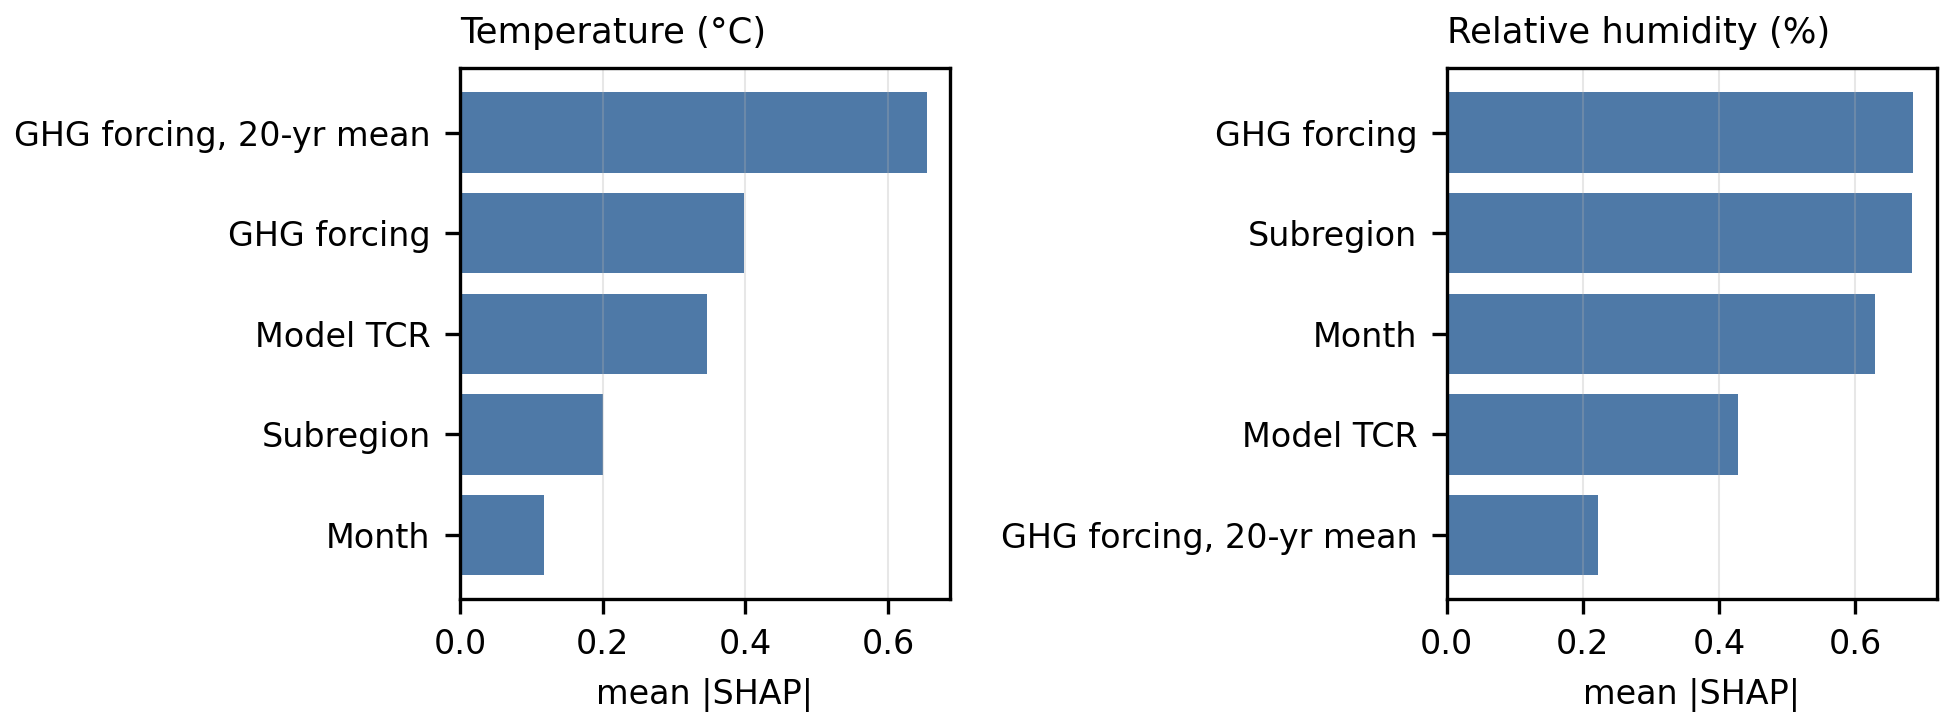
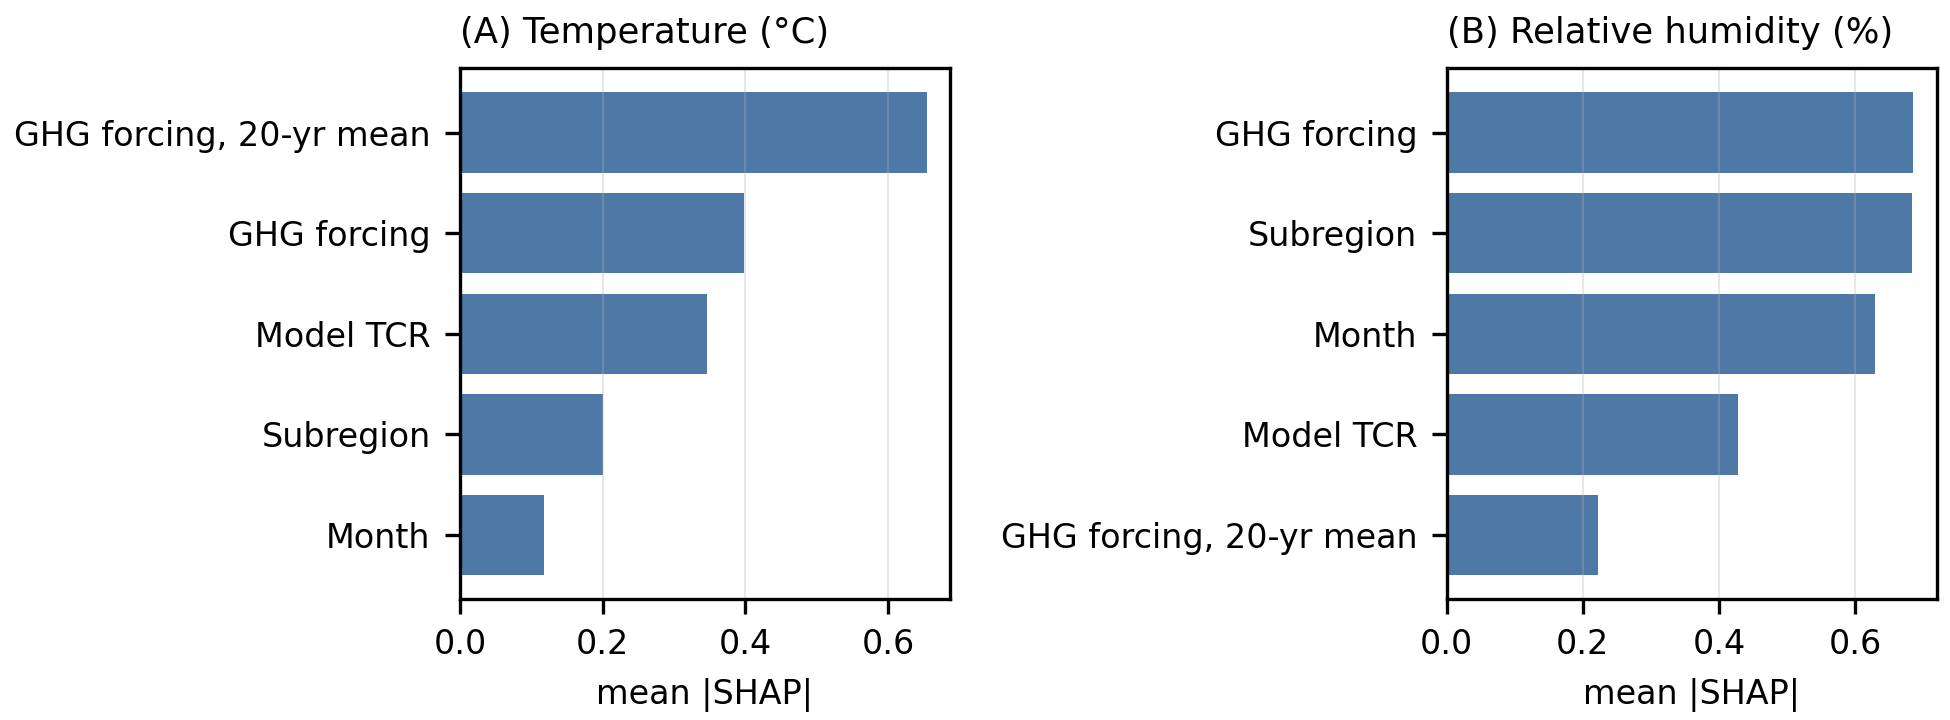
Update figure titles for clarity and consistency across multiple scripts

Changed region(s): [[0.7385, 0.0, 0.9846, 0.0611], [0.2154, 0.0, 0.4308, 0.0611]]

diff --git a/tg2/pipeline/07_pelt_changepoints.py b/tg2/pipeline/07_pelt_changepoints.py
@@ -156,7 +156,7 @@ def plot_breaks(forced, cons, path):
     plt.rcParams.update({"font.size": 8, "axes.titlesize": 9, "axes.labelsize": 8, "xtick.labelsize": 7.5, "ytick.labelsize": 7.5})
     colors, styles = {"tas": "#d62728", "hurs": "#1f77b4"}, {"slope": "--", "variance": ":"}
     fig, axes = plt.subplots(2, 2, figsize=(6.5, 4.6), sharex=True)
-    for ax, reg in zip(axes.flat, SUBREGIONS):
+    for k, (ax, reg) in enumerate(zip(axes.flat, SUBREGIONS)):
         ax2 = ax.twinx()
         for var, a in (("tas", ax), ("hurs", ax2)):
             sub = forced[(forced.region == reg) & (forced.variable == var) & (forced.scenario == "ssp585")]
@@ -171,7 +171,7 @@ def plot_breaks(forced, cons, path):
             ax.axvline(row.year_median, color=colors[row.variable], ls=styles[row.kind], lw=1.1)
             ax.text(row.year_median + 1, lo + (i % 3) * 0.12 * (hi - lo), str(row.year_median),
                     color=colors[row.variable], fontsize=6.5, rotation=90, va="bottom")
-        ax.set_title(reg, loc="left")
+        ax.set_title(f"({'ABCD'[k]}) {reg}", loc="left")
         ax.set_xlim(1950, 2100)
         ax.grid(alpha=0.3, lw=0.5)
     fig.text(0.5, 0.01, "Dashed: slope change. Dotted: variance change. Consensus of >= 5 of 8 GCMs, SSP5-8.5 and historical.",
@@ -185,7 +185,7 @@ def plot_coupling(coup, cons, path):
     plt.rcParams.update({"font.size": 8, "axes.titlesize": 9, "axes.labelsize": 8, "xtick.labelsize": 7.5, "ytick.labelsize": 7.5})
     styles = {"ssp126": ("SSP1-2.6", "#1f77b4"), "ssp585": ("SSP5-8.5", "#d62728")}
     fig, axes = plt.subplots(2, 2, figsize=(6.5, 4.2), sharex=True, sharey=True)
-    for ax, reg in zip(axes.flat, SUBREGIONS):
+    for k, (ax, reg) in enumerate(zip(axes.flat, SUBREGIONS)):
         for s, (label, color) in styles.items():
             sub = coup[(coup.region == reg) & (coup.scenario == s)]
             ens = sub.groupby("year")["coupling"].quantile([0.1, 0.5, 0.9]).unstack()
@@ -196,7 +196,7 @@ def plot_coupling(coup, cons, path):
         for row in marks.itertuples():
             ax.axvline(row.year_median, color="black", ls="--", lw=1.0)
             ax.text(row.year_median + 1, ax.get_ylim()[1], str(row.year_median), fontsize=6.5, rotation=90, va="top")
-        ax.set_title(reg, loc="left")
+        ax.set_title(f"({'ABCD'[k]}) {reg}", loc="left")
         ax.set_xlim(1950, 2100)
         ax.grid(alpha=0.3, lw=0.5)
     axes[0, 0].set_ylabel("Normalized T-H covariance")

diff --git a/tg2/pipeline/12_toe_maps.py b/tg2/pipeline/12_toe_maps.py
@@ -86,7 +86,7 @@ def plot(maps, lat, lon, land, path):
         features = []
         print(f"coastlines skipped (Natural Earth unavailable): {type(exc).__name__}")
     fig, axes = plt.subplots(1, 2, figsize=(6.5, 4.6), subplot_kw={"projection": ccrs.PlateCarree()})
-    for ax, (var, toe) in zip(axes, maps.items()):
+    for k, (ax, (var, toe)) in enumerate(zip(axes, maps.items())):
         grid = np.full(land.shape, np.nan)
         grid[land] = toe
         never = np.where(np.isinf(grid), 1.0, np.nan)
@@ -101,7 +101,7 @@ def plot(maps, lat, lon, land, path):
         gl = ax.gridlines(draw_labels=True, linewidth=0.2, color="gray", alpha=0.5)
         gl.top_labels = gl.right_labels = False
         gl.xlabel_style = gl.ylabel_style = {"size": 7}
-        ax.set_title(f"{NAMES[var]}, {SSP_LABELS[MAP_SCENARIO]}", loc="left")
+        ax.set_title(f"({'AB'[k]}) {NAMES[var]}, {SSP_LABELS[MAP_SCENARIO]}", loc="left")
     cbar = fig.colorbar(mesh, ax=axes, orientation="horizontal", fraction=0.05, pad=0.08, aspect=40, extend="min")
     cbar.set_label("Year of emergence (ensemble median, SNR ≥ 2)")
     fig.legend(handles=[Patch(color="#c8c8c8", label="No emergence by 2100")], loc="lower right", frameon=False,

diff --git a/tg2/pipeline/09_emulators.py b/tg2/pipeline/09_emulators.py
@@ -153,10 +153,10 @@ def shap_importance(table, spec, targets):
     imp.to_csv(OUT / "shap_importance.csv", index=False)
     plt.rcParams.update({"font.size": 8, "axes.titlesize": 8.5})
     fig, axes = plt.subplots(1, len(targets), figsize=(6.5, 2.4))
-    for ax, target in zip(np.atleast_1d(axes), targets):
+    for k, (ax, target) in enumerate(zip(np.atleast_1d(axes), targets)):
         d = imp[imp.target == target].sort_values("mean_abs_shap")
         ax.barh(d.feature.map(LABELS), d.mean_abs_shap, color="#4e79a7")
-        ax.set_title("Temperature (°C)" if target == "tas_anom" else "Relative humidity (%)", loc="left")
+        ax.set_title(f"({'AB'[k]}) " + ("Temperature (°C)" if target == "tas_anom" else "Relative humidity (%)"), loc="left")
         ax.set_xlabel("mean |SHAP|")
         ax.grid(axis="x", alpha=0.3, lw=0.5)
     fig.tight_layout(pad=0.4, w_pad=1.5)

diff --git a/tg2/pipeline/02_forcing_meinshausen.py b/tg2/pipeline/02_forcing_meinshausen.py
@@ -61,7 +61,7 @@ def plot_figure(forcing, path):
     fig, axes = plt.subplots(1, 2, figsize=(6.5, 2.7), sharey=True)
     hist_end = forcing[(forcing.scenario == "historical") & (forcing.year == 2014)]
     s126 = forcing[forcing.scenario == "ssp126"].set_index("year")
-    panels = (("co2eq_ppm", "CO$_2$-equivalent concentration"), ("co2_ppm", "CO$_2$ concentration"))
+    panels = (("co2eq_ppm", "(A) CO$_2$-equivalent concentration"), ("co2_ppm", "(B) CO$_2$ concentration"))
     for ax, (col, title) in zip(axes, panels):
         for scenario in SHEETS:
             s = forcing[forcing.scenario == scenario]

diff --git a/tg2/pipeline/08_uncertainty_partition.py b/tg2/pipeline/08_uncertainty_partition.py
@@ -88,8 +88,7 @@ def plot(part, path):
             ax.set_xlim(2015, 2100)
             ax.set_ylim(0, 1)
             ax.set_xticks([2030, 2060, 2090])
-            if i == 0:
-                ax.set_title(reg, loc="left")
+            ax.set_title(f"({'ABCDEFGH'[4 * i + j]})" + (f" {reg}" if i == 0 else ""), loc="left")
             if j == 0:
                 ax.set_ylabel(f"{'Temperature' if var == 'tas' else 'Relative humidity'}\nfraction of variance")
     handles, labels = axes[0, 0].get_legend_handles_labels()

diff --git a/tg2/pipeline/06_toe_divergence.py b/tg2/pipeline/06_toe_divergence.py
@@ -129,8 +129,7 @@ def plot_fan_charts_ssp1_vs_ssp5(forced, sigma, path):
             ax.set_xlim(1950, 2100)
             ax.set_xticks([1960, 2020, 2080])
             ax.grid(alpha=0.3, lw=0.5)
-            if i == 0:
-                ax.set_title(reg, loc="left")
+            ax.set_title(f"({'ABCDEFGH'[4 * i + j]})" + (f" {reg}" if i == 0 else ""), loc="left")
             if j == 0:
                 ax.set_ylabel(ylabel)
     handles, labels = axes[0, 0].get_legend_handles_labels()

diff --git a/tg2/pipeline/10_oe4_figures.py b/tg2/pipeline/10_oe4_figures.py
@@ -46,7 +46,7 @@ def main():
             ax.set_yticklabels(labels)
             ax.set_ylim(len(order) - 0.5, -0.5)
             ax.grid(axis="x", alpha=0.3, lw=0.5)
-            ax.set_title(f"{name}: {'skill' if j == 0 else 'coverage'}", loc="left")
+            ax.set_title(f"({'ABCD'[2 * i + j]}) {name}: {'skill' if j == 0 else 'coverage'}", loc="left")
             if i == 1:
                 ax.set_xlabel(xlabel)
     handles, lbls = axes[0, 0].get_legend_handles_labels()
